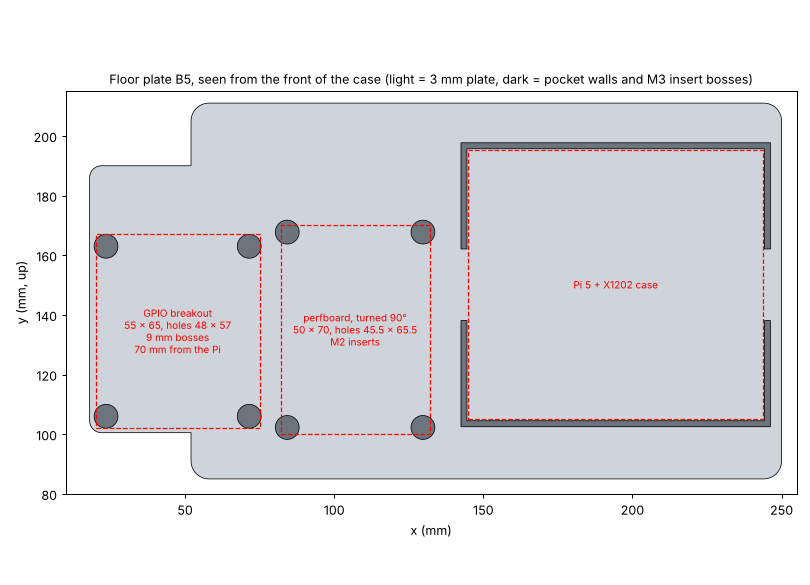
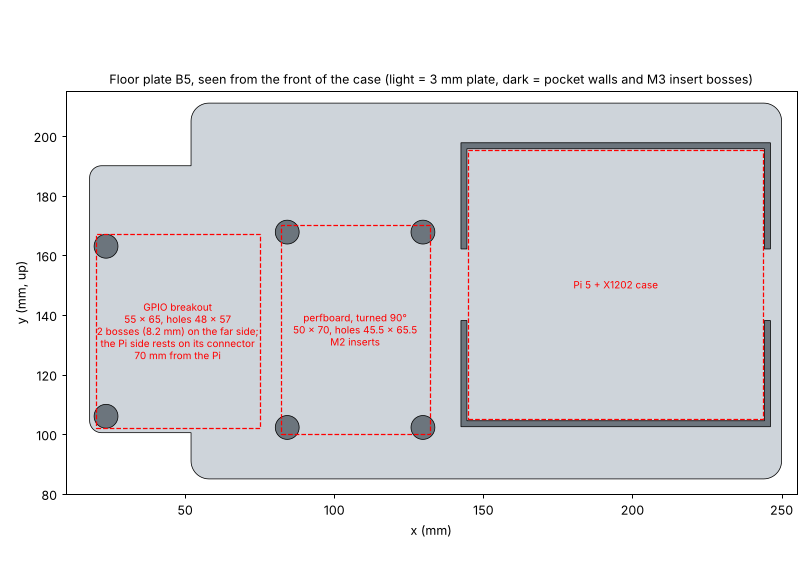
Breakout: two 8.2 mm bosses on the side away from the Pi only
The board's own GPIO connector blocks the two holes near the Pi and
supports that side instead.

Claude-Session: https://claude.ai/code/session_015Mjdpdd6ef1wmGCnczCrjc

Changed region(s): [[0.1235, 0.5231, 0.3086, 0.6154], [0.2778, 0.6769, 0.3395, 0.7385], [0.2778, 0.4, 0.3395, 0.4615]]

diff --git a/hardware/src/floorplate.py b/hardware/src/floorplate.py
@@ -20,10 +20,10 @@ M2_D,M2_L=3.2,4.0               # M2 insert hole (OD 3.2, up to 4 mm long); cut 
 # 65 x 55 GPIO breakout turned 90 deg (55 across, 65 up) so the Pi ribbon runs straight; M3 holes ~48 x 57 (measured)
 # far left, 70 mm from the Pi case so the ribbon clears the Pi's HDMI ports (needs >= 65 mm, measured)
 BO=(20.0,102.0,75.0,167.0); BO_HX,BO_HY=48.0,57.0
-BO_BOSS_H=9.0                    # parts under the board need 8.65 mm; the 35 mm total includes them
+BO_BOSS_H=8.2                    # two bosses on the side away from the Pi; the Pi side rests on the board's own GPIO connector (measured)
 def bo_holes():
     cx,cy=(BO[0]+BO[2])/2,(BO[1]+BO[3])/2
-    return [(cx+sx*BO_HX/2,cy+sy*BO_HY/2) for sx in (-1,1) for sy in (-1,1)]
+    return [(cx-BO_HX/2,cy+sy*BO_HY/2) for sy in (-1,1)]   # only the two holes farthest from the Pi
 def pb_holes():
     cx,cy=(PB[0]+PB[2])/2,(PB[1]+PB[3])/2
     return [(cx+sx*PB_HX/2,cy+sy*PB_HY/2) for sx in (-1,1) for sy in (-1,1)]
@@ -52,7 +52,7 @@ def draw(fn):
         for p in m.slice(z).to_polygons():
             p=np.asarray(p); v+=list(map(tuple,p))+[tuple(p[0])]; cd+=[Path.MOVETO]+[Path.LINETO]*(len(p)-1)+[Path.CLOSEPOLY]
         ax.add_patch(PathPatch(Path(v,cd),fc=c,ec='k',lw=0.6))
-    for lab,(x0,y0,x1,y1) in [('Pi 5 + X1202 case',PI),('perfboard, turned 90°\n50 × 70, holes 45.5 × 65.5\nM2 inserts',PB),('GPIO breakout\n55 × 65, holes 48 × 57\n9 mm bosses\n70 mm from the Pi',BO)]:
+    for lab,(x0,y0,x1,y1) in [('Pi 5 + X1202 case',PI),('perfboard, turned 90°\n50 × 70, holes 45.5 × 65.5\nM2 inserts',PB),('GPIO breakout\n55 × 65, holes 48 × 57\n2 bosses (8.2 mm) on the far side;\nthe Pi side rests on its connector\n70 mm from the Pi',BO)]:
         ax.add_patch(plt.Rectangle((x0,y0),x1-x0,y1-y0,fc='none',ec='r',ls='--')); ax.text((x0+x1)/2,(y0+y1)/2,lab,ha='center',va='center',fontsize=8,color='r')
     ax.set_xlim(10,255); ax.set_ylim(80,215); ax.set_aspect('equal'); ax.set_xlabel('x (mm)'); ax.set_ylabel('y (mm, up)')
     ax.set_title('Floor plate B5, seen from the front of the case (light = 3 mm plate, dark = pocket walls and M3 insert bosses)',fontsize=10)

diff --git a/hardware/README.md b/hardware/README.md
@@ -37,7 +37,7 @@ Bambu Studio 3MF plates for a Bambu Lab P1S (256 mm bed). Every part is already 
 | B3 | Port tray, four floor posts, four screen clamps, PMS7003 cradle |
 | B3a | Port tray and PMS7003 cradle (the same parts as on B3, for printing them first) |
 | B4 | Two kickstand hinge plates and legs |
-| B5 | Floor plate: Pi case pocket, insert bosses for the perfboard (6 mm) and the GPIO breakout (9 mm, board turned 90°); 60 × 60 × 2 mm KVM spacer |
+| B5 | Floor plate: Pi case pocket, insert bosses for the perfboard (6 mm) and the GPIO breakout (two 8.2 mm bosses); 60 × 60 × 2 mm KVM spacer |
 | speaker_pods_complete_x2 | Both complete pods (bodies and baffles) on one plate, if you print the pods separately from B1/B2 |
 
 The KVM remote button lives in the open pocket at the left end of the lid's hinge strip; its cable runs through the keyboard cable slots. The PMS7003 cradle on B3/B3a is printed mirrored so its board side faces the screen.
@@ -48,9 +48,9 @@ The KVM remote button lives in the open pocket at the left end of the lid's hing
 
 | Item | Qty | Used for |
 |---|---|---|
-| M3 heat-set insert (M3 × 5.7, for a 4.0 mm hole) | 43 (+ spares) | Pods 8, screen clamps 8, port tray 4, posts 4, PMS7003 cradle 3, keyboard cradle 12, floor plate 4 (GPIO breakout) |
+| M3 heat-set insert (M3 × 5.7, for a 4.0 mm hole) | 41 (+ spares) | Pods 8, screen clamps 8, port tray 4, posts 4, PMS7003 cradle 3, keyboard cradle 12, floor plate 2 (GPIO breakout) |
 | M2 heat-set insert (for a 3.2 mm hole, up to 4 mm long) + M2 × 5 pan screw | 4 | Perfboard on the floor plate |
-| M3 × 6 pan screw | 4 | GPIO breakout on the floor plate |
+| M3 × 6 pan screw | 2 | GPIO breakout on the floor plate |
 | M3 × 8 countersunk | 24 | Lid overlay, screen clamps, port tray, sensor cradle |
 | M3 × 10 countersunk | 4 | Floor posts |
 | M3 × 20 countersunk | 8 | Speaker pods through the panel |
